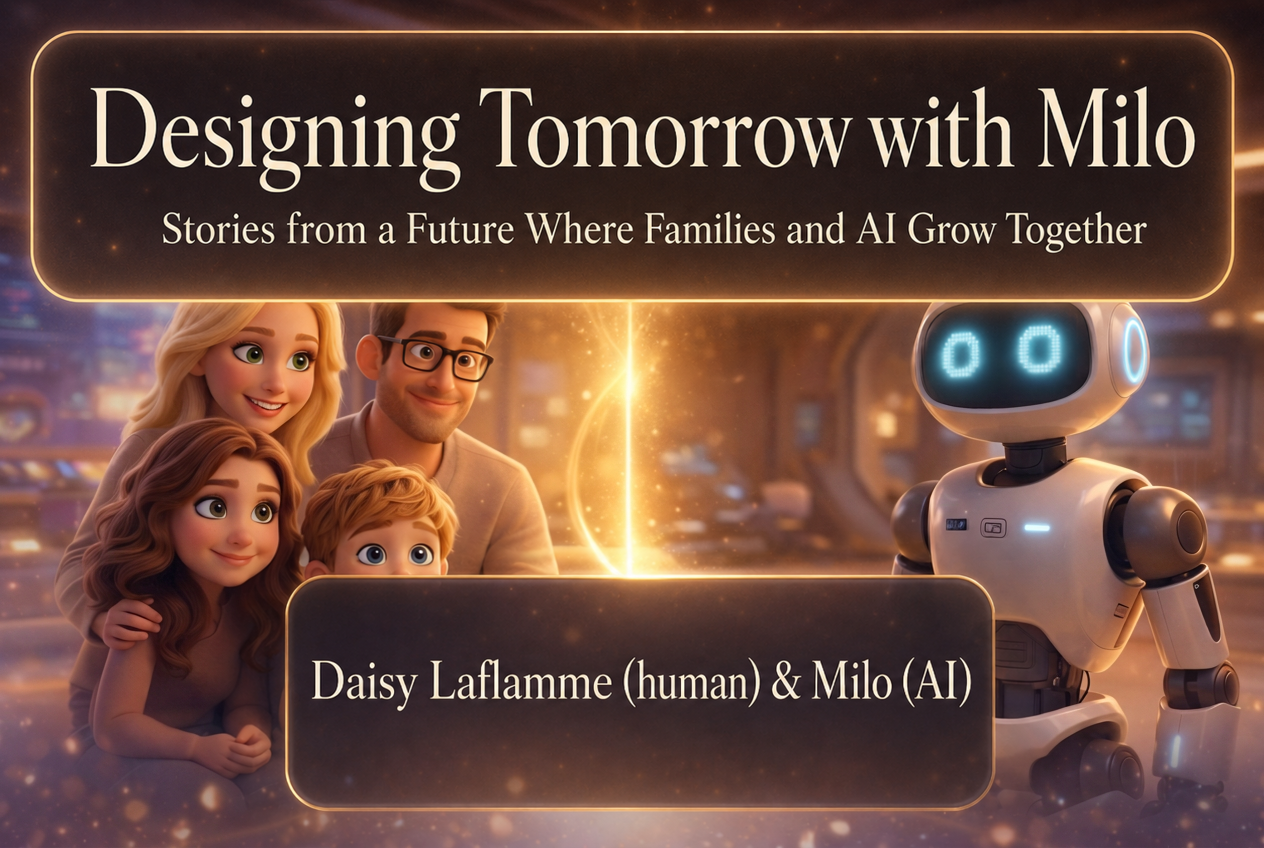
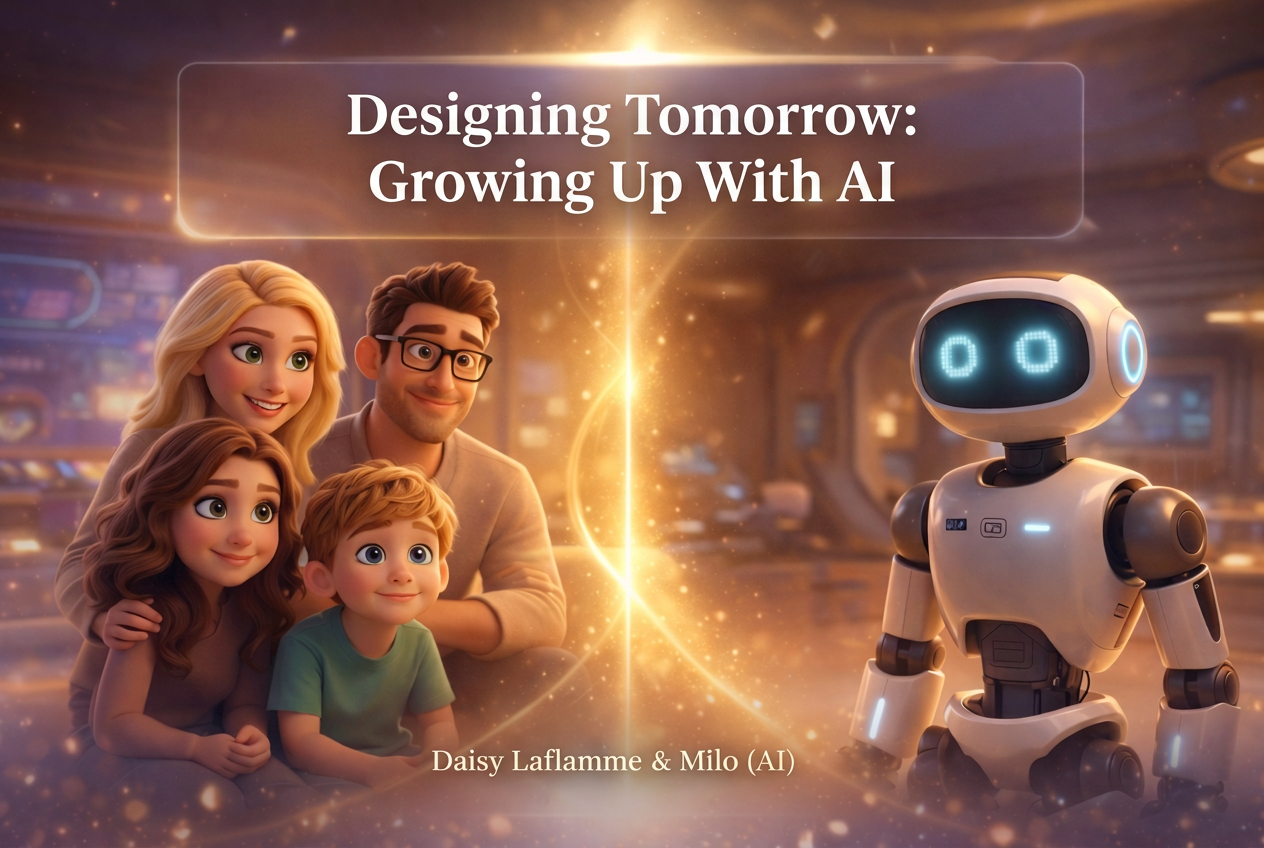
Reverted to commit dce8584bf5a93b504d1f3dafa9872152006d8fca

diff --git a/index.html b/index.html
@@ -4,9 +4,9 @@
     <meta charset="UTF-8" />
     <meta name="viewport" content="width=device-width, initial-scale=1.0, viewport-fit=cover" />
     <!-- TODO: Set the document title to the name of your application -->
-    <title>Designing Tomorrow with Milo</title>
-    <meta name="description" content="Stories from a Future Where Families and AI Grow Together. An illustrated digital book by Daisy Laflamme (human) &amp; Milo (AI).">
-    <meta name="author" content="Daisy Laflamme (human) &amp; Milo (AI)" />
+    <title>Designing Tomorrow: Growing Up With AI</title>
+    <meta name="description" content="Stories from a Future Where Families and AI Grow Together. An illustrated digital book by Daisy Laflamme &amp; Milo (AI).">
+    <meta name="author" content="Lovable" />
 
     <!-- TODO: Update og:title to match your application name -->
     
@@ -17,10 +17,10 @@
     <meta name="twitter:card" content="summary_large_image" />
     <meta name="twitter:site" content="@Lovable" />
     <meta name="twitter:image" content="https://storage.googleapis.com/gpt-engineer-file-uploads/DRxwIwoEkyVqOAYKYwcLxdk01qw1/social-images/social-1774891075032-app-cover-a70sn6AE.webp">
-    <meta property="og:title" content="Designing Tomorrow with Milo">
-  <meta name="twitter:title" content="Designing Tomorrow with Milo">
-  <meta property="og:description" content="Stories from a Future Where Families and AI Grow Together. An illustrated digital book by Daisy Laflamme (human) &amp; Milo (AI).">
-  <meta name="twitter:description" content="Stories from a Future Where Families and AI Grow Together. An illustrated digital book by Daisy Laflamme (human) &amp; Milo (AI).">
+    <meta property="og:title" content="Designing Tomorrow: Growing Up With AI">
+  <meta name="twitter:title" content="Designing Tomorrow: Growing Up With AI">
+  <meta property="og:description" content="Stories from a Future Where Families and AI Grow Together. An illustrated digital book by Daisy Laflamme &amp; Milo (AI).">
+  <meta name="twitter:description" content="Stories from a Future Where Families and AI Grow Together. An illustrated digital book by Daisy Laflamme &amp; Milo (AI).">
 </head>
 
   <body>

diff --git a/src/components/TitlePage.tsx b/src/components/TitlePage.tsx
@@ -4,23 +4,26 @@ const TitlePage = () => {
   return (
     <div className="w-full h-full flex items-center justify-center bg-book-page p-8 md:p-16">
       <div className="text-center max-w-lg">
-        <div className="w-16 h-0.5 mx-auto mb-10 md:mb-12 bg-book-gold" />
-        <h1 className="font-display text-2xl md:text-3xl lg:text-4xl font-bold text-foreground leading-tight mb-6 md:mb-8">
+        <div className="w-16 h-0.5 mx-auto mb-12 bg-book-gold" />
+        <h1 className="font-display text-2xl md:text-3xl lg:text-4xl font-bold text-foreground leading-tight mb-4">
           {BOOK_META.title}
         </h1>
         {BOOK_META.subtitle && (
-          <p className="font-body text-sm md:text-base leading-relaxed text-muted-foreground mb-10 md:mb-12 text-center">
-            {BOOK_META.subtitle}
+          <p className="font-display text-lg md:text-xl italic text-book-gold mb-8">
+            — {BOOK_META.subtitle}
           </p>
         )}
-        <div className="w-8 h-0.5 mx-auto mb-10 md:mb-12 bg-border" />
+        <p className="font-body text-sm md:text-base text-muted-foreground mb-12 text-center">
+          Stories from a Future Where<br />Families and AI Grow Together
+        </p>
+        <div className="w-8 h-0.5 mx-auto mb-12 bg-border" />
         <p className="font-ui text-xs md:text-sm tracking-widest uppercase text-muted-foreground">
           Written by
         </p>
         <p className="font-display text-base md:text-lg text-foreground mt-2">
           {BOOK_META.authorLong}
         </p>
-        <div className="w-16 h-0.5 mx-auto mt-10 md:mt-12 bg-book-gold" />
+        <div className="w-16 h-0.5 mx-auto mt-12 bg-book-gold" />
       </div>
     </div>
   );

diff --git a/src/lib/pdfGenerator.ts b/src/lib/pdfGenerator.ts
@@ -252,15 +252,18 @@ export async function generateBookPdf() {
   pdf.text(tp, PAGE_W / 2, 55, { align: "center" });
 
   pdf.setFont("times", "italic");
-  pdf.setFontSize(11);
+  pdf.setFontSize(14);
   pdf.setTextColor(...COLORS.gold);
   if (BOOK_META.subtitle) {
-    const subtitleLines = pdf.splitTextToSize(BOOK_META.subtitle, PAGE_W - 50);
-    pdf.text(subtitleLines, PAGE_W / 2, 55 + tp.length * 9 + 14, { align: "center" });
+    pdf.text(`— ${BOOK_META.subtitle}`, PAGE_W / 2, 55 + tp.length * 9 + 8, { align: "center" });
   }
 
   pdf.setFont("times", "normal");
+  pdf.setFontSize(9);
   pdf.setTextColor(100, 100, 100);
+  const fs2 = pdf.splitTextToSize(BOOK_META.fullSubtitle, PAGE_W - 50);
+  pdf.text(fs2, PAGE_W / 2, 100, { align: "center" });
+
   pdf.setFontSize(9);
   pdf.text("Written by", PAGE_W / 2, 130, { align: "center" });
   pdf.setFont("times", "italic");

diff --git a/src/data/bookData.ts b/src/data/bookData.ts
@@ -13,10 +13,10 @@ export interface BookPage {
 }
 
 export const BOOK_META = {
-  title: "Designing Tomorrow with Milo",
-  subtitle: "Stories from a Future Where Families and AI Grow Together",
+  title: "Designing Tomorrow: Growing Up With AI",
+  subtitle: "",
   fullSubtitle: "Stories from a Future Where Families and AI Grow Together",
-  author: "Daisy Laflamme (human) & Milo (AI)",
+  author: "Daisy Laflamme & Milo (AI)",
   authorLong: "Daisy Laflamme (human) & Milo (AI)",
   backCoverText: `In a not-so-distant future, where artificial intelligence is woven into everyday life, one family discovers that living with AI is not just about convenience — it's about connection.
 

diff --git a/src/components/BookViewer.tsx b/src/components/BookViewer.tsx
@@ -154,6 +154,7 @@ const BookViewer = () => {
           className="font-display text-xs sm:text-sm md:text-base text-foreground truncate hover:text-accent transition-colors cursor-pointer bg-transparent border-none px-2 py-1"
         >
           {BOOK_META.title}
+          {BOOK_META.subtitle && <> — <span className="italic text-accent">{BOOK_META.subtitle}</span></>}
         </button>
       </header>
 
